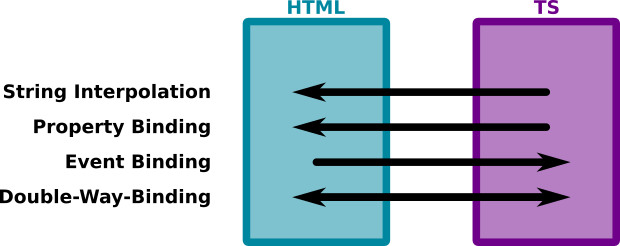
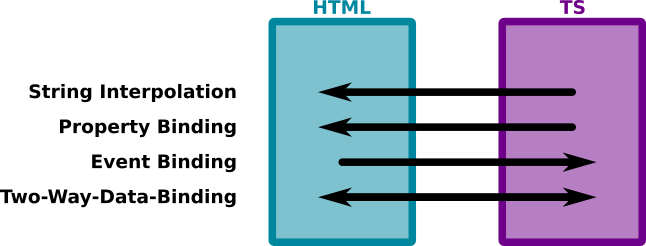
Chapter04: bindings directions image checked

diff --git a/book/chapter04.md b/book/chapter04.md
@@ -421,6 +421,9 @@ export class App {
 {% endtabs %}
 
 ## Direcció de l'enllaç de dades
+Tal com s'ha vist en els apartats anteriors, cada tipus d'enllaç de dades té una direccionalitat, és a dir, permet afectar el codi `HTML` des del `TS` o viceversa.
+
+La següent imatge resumeix el sentit de l'enllaç que provoca cada tipus de *binding*.
 
 ![Direccionalitat dels *bindings*](img/ch04/bindings_direction.png)
 
